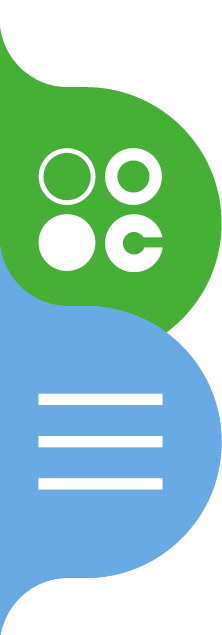
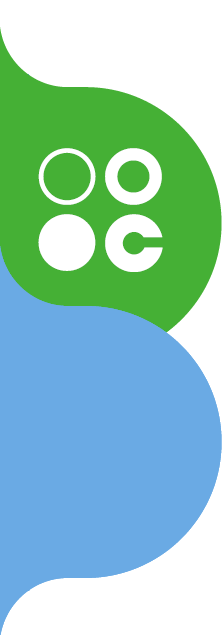
250602 update

Changed region(s): [[0.1622, 0.5984, 0.7297, 0.6583], [0.1622, 0.748, 0.7568, 0.778], [0.1622, 0.6882, 0.7297, 0.7181]]

diff --git a/build/celltrion.html b/build/celltrion.html
@@ -7,7 +7,7 @@
     
     <title>CELLTRION</title>
     <link rel="stylesheet" href="assets/swiper-bundle.min.css" />
-    <link rel="stylesheet" href="assets/css/celltrionStyle.css" />
+    <!-- <link rel="stylesheet" href="assets/css/celltrionStyle.css" /> -->
   <script type="module" crossorigin src="./assets/main-CuQaTSdZ.js"></script>
   <link rel="stylesheet" crossorigin href="./assets/css/main.css">
   <link rel="stylesheet" crossorigin href="./assets/css/celltrionStyle.css">
@@ -276,7 +276,7 @@
     </div>
 
 
-    <script src="./assets/swiper-bundle.min.js"></script>
+    <script src="assets/swiper-bundle.min.js"></script>
     <script>
         const navopen = document.querySelector('.nav-open');
         const nav = document.querySelector('.nav');
@@ -284,7 +284,7 @@
         const swiper = new Swiper('.swiper-container', {
             slidesPerView: 1,
             pagination: { el: '.swiper-pagination', clickable: true },
-            initialSlide: 0,
+            //initialSlide: 0,
             on: {
                 init() {
                     updatePageActive()

diff --git a/src/celltrion.html b/src/celltrion.html
@@ -7,7 +7,7 @@
     
     <title>CELLTRION</title>
     <link rel="stylesheet" href="assets/swiper-bundle.min.css" />
-    <link rel="stylesheet" href="assets/css/celltrionStyle.css" />
+    <!-- <link rel="stylesheet" href="assets/css/celltrionStyle.css" /> -->
 </head>
 
 <body>
@@ -103,9 +103,9 @@
         </div>
     </div>
 
-    <script src="/js/celltrion.js" type="module"></script>
+    <script src="js/celltrion.js" type="module"></script>
 
-    <script src="/assets/swiper-bundle.min.js"></script>
+    <script src="assets/swiper-bundle.min.js"></script>
     <script>
         const navopen = document.querySelector('.nav-open');
         const nav = document.querySelector('.nav');
@@ -113,7 +113,7 @@
         const swiper = new Swiper('.swiper-container', {
             slidesPerView: 1,
             pagination: { el: '.swiper-pagination', clickable: true },
-            initialSlide: 0,
+            //initialSlide: 0,
             on: {
                 init() {
                     updatePageActive()

diff --git a/build/biosimilar.html b/build/biosimilar.html
@@ -4,10 +4,8 @@
 <head>
     <meta charset="UTF-8">
     <meta name="viewport" content="width=2160, height=3840, initial-scale=1.0, maximum-scale=1.0, user-scalable=no">
-    <link rel="stylesheet" href="./assets/swiper-bundle.min.css" />
-    <link rel="stylesheet" href="/assets/css/biosimilarStyle.css" />
     <title>Biosimilar</title>
-    
+    <link rel="stylesheet" href="assets/swiper-bundle.min.css" />
   <script type="module" crossorigin src="./assets/main-CuQaTSdZ.js"></script>
   <link rel="stylesheet" crossorigin href="./assets/css/main.css">
   <link rel="stylesheet" crossorigin href="./assets/css/biosimilarStyle.css">
@@ -351,8 +349,8 @@
             </div>
         </div>
     </div>
-
-    <script src="./assets/swiper-bundle.min.js"></script>
+
+    <script src="assets/swiper-bundle.min.js"></script>
     <script>
         const navopen = document.querySelector('.nav-open');
         const nav = document.querySelector('.nav');

diff --git a/src/biosimilar.html b/src/biosimilar.html
@@ -4,10 +4,8 @@
 <head>
     <meta charset="UTF-8">
     <meta name="viewport" content="width=2160, height=3840, initial-scale=1.0, maximum-scale=1.0, user-scalable=no">
-    <link rel="stylesheet" href="/assets/swiper-bundle.min.css" />
-    <link rel="stylesheet" href="/assets/css/biosimilarStyle.css" />
     <title>Biosimilar</title>
-    
+    <link rel="stylesheet" href="assets/swiper-bundle.min.css" />
 </head>
 
 <body>
@@ -194,8 +192,8 @@
         </div>
     </div>
 
-    <script src="/js/biosimilar.js" type="module"></script>
-    <script src="/assets/swiper-bundle.min.js"></script>
+    <script src="js/biosimilar.js" type="module"></script>
+    <script src="assets/swiper-bundle.min.js"></script>
     <script>
         const navopen = document.querySelector('.nav-open');
         const nav = document.querySelector('.nav');

diff --git a/build/assets/css/main.css b/build/assets/css/main.css
@@ -321,7 +321,6 @@ img {
   width: 1874px;
   height: 1874px;
   transform-origin: center;
-  touch-action: none;
   margin-top: 200px;
 }
 
@@ -331,7 +330,6 @@ img {
   height: 100%;
   border-radius: 50%;
   background: url(../celltrion/menu.png) no-repeat 0 0;
-  touch-action: none;
 }
 
 .home-button {
@@ -352,7 +350,6 @@ img {
   position: absolute;
   width: 272px;
   height: 280px;
-  cursor: pointer;
 }
 
 .menu-item-1 {
@@ -400,7 +397,6 @@ img {
   display: flex;
   justify-content: center;
   align-items: center;
-  pointer-events: auto;
 }
 
 #biosimilar-kiosk #nav {

diff --git a/src/scss/pages/biosimilar.scss b/src/scss/pages/biosimilar.scss
@@ -83,10 +83,10 @@ $h : calc($height - $top - $bottom);
             //top: 0;left: 0;
         }
         a{z-index: 1;top: 0;height: 300px;}
-        button{z-index: 2;top: 273px;height: 300px;}
+        button{z-index: 2;top: 289px;height: 300px;}
     }
     .nav-open{
-        background: url(#{$image-path}/biosimilar/open.png) no-repeat 50% 50%;
+        background: url(#{$image-path}/biosimilar/btn.png) no-repeat 50% 50%;
         transition: all 0.5s ease-in-out;
         &.on{
             background-image: url(#{$image-path}/biosimilar/close.png);

diff --git a/src/scss/pages/_menu.scss b/src/scss/pages/_menu.scss
@@ -29,7 +29,6 @@
   width: 1874px;
   height: 1874px;
   transform-origin: center;
-  touch-action: none;
   margin-top: 200px;
 }
 
@@ -39,7 +38,6 @@
   height: 100%;
   border-radius: 50%;
   background: url(#{$image-path}/celltrion/menu.png) no-repeat 0 0;
-  touch-action: none;
 }
 
 
@@ -64,7 +62,6 @@
   position: absolute;
   width: 272px;
   height: 280px;
-  cursor: pointer;
   //background-color: #000;
 }
 .menu-item-1{
@@ -97,7 +94,6 @@
   display: flex;
   justify-content: center;
   align-items: center;
-  pointer-events: auto;
 }
 
 

diff --git a/build/assets/css/biosimilarStyle.css b/build/assets/css/biosimilarStyle.css
@@ -75,11 +75,11 @@
 }
 .sticky-button .wrpas button {
   z-index: 2;
-  top: 273px;
+  top: 289px;
   height: 300px;
 }
 .sticky-button .nav-open {
-  background: url(../biosimilar/open.png) no-repeat 50% 50%;
+  background: url(../biosimilar/btn.png) no-repeat 50% 50%;
   transition: all 0.5s ease-in-out;
 }
 .sticky-button .nav-open.on {

diff --git a/src/index.html b/src/index.html
@@ -6,5 +6,6 @@
     <title>CELLTRION</title>
 </head>
 <body>
-    넘어가는 화면
+    <a href="/celltrion.html">celltrion</a>
+    <a href="/biosimilar.html">biosimilar</a>
 </body></html>

diff --git a/src/scss/pages/celltrion.scss b/src/scss/pages/celltrion.scss
@@ -101,7 +101,6 @@ body:has(.swiper-slide1.swiper-slide-active){
             background-image: url(#{$image-path}/celltrion/close.png);
         }
     }
-
 }
 
 #celltrion-kiosk{

diff --git a/src/scss/utils/variables.scss b/src/scss/utils/variables.scss
@@ -1,4 +1,4 @@
 $width: 2160px;
 $height: 3840px;
-$image-path: '/assets/';
-//$image-path: '..';
+//$image-path: 'assets/';
+$image-path: '..';
